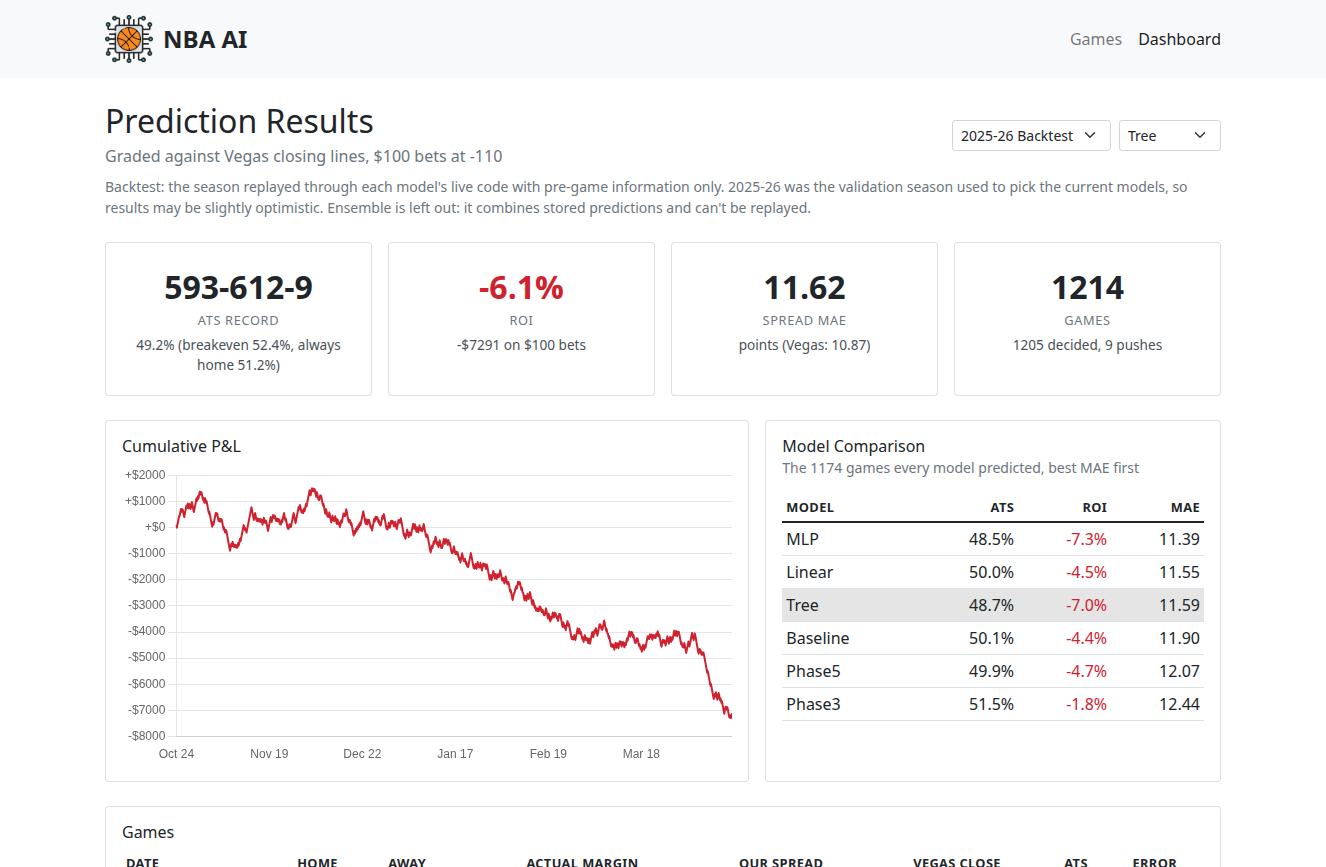
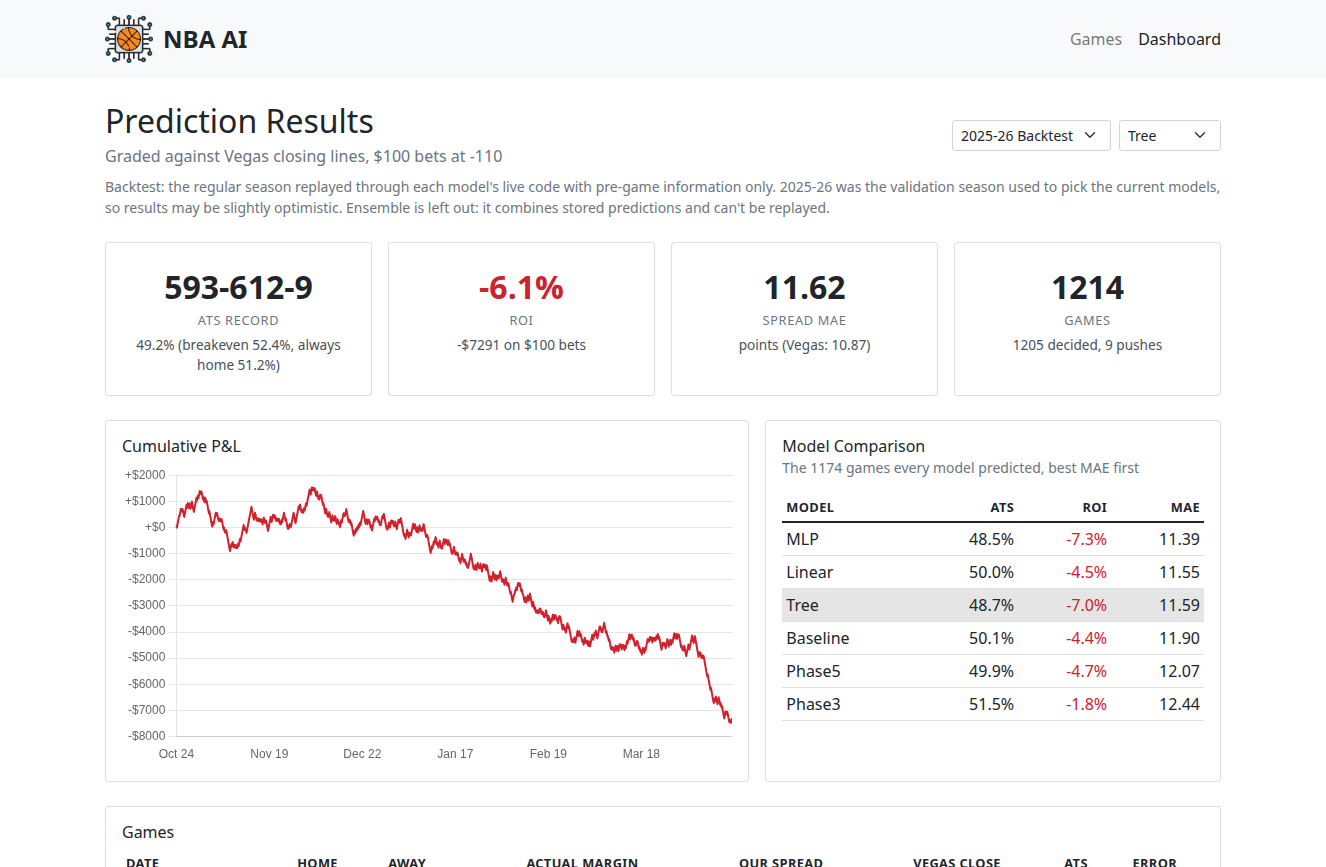
fix(dashboard): robust model comparison; backtest uses Eastern dates
- compare_predictors (dashboard + README chart): predictors with under
  half the best-covered one's games are left out (and named), so a sparse
  or lapsed predictor can't shrink everyone's common games; the README
  chart now uses the same comparison as the dashboard
- Record notes say what each covers: live = regular season and playoffs,
  backtest = its season type
- backtest.py --start/--end filter on Eastern dates (UTC pulled in the
  previous evening's games and dropped the end date's evening games); an
  empty range exits with a message; the usage example no longer lists
  Ensemble, which can't be backtested
- Dashboard screenshot retaken for the new note

diff --git a/src/web_app/static/js/dashboard.js b/src/web_app/static/js/dashboard.js
@@ -8,11 +8,13 @@
 
 const GAMES_PAGE_SIZE = 20;
 const BREAKEVEN_ATS = 52.4; // ATS win rate that breaks even at -110
-const RECORD_NOTES = {
-  live: "Live: predictions made and stored before tip-off.",
-  backtest:
-    "Backtest: the season replayed through each model's live code with pre-game information only.",
-};
+/** What a record is: live predictions, or a replayed season. */
+function recordNote(record, isBacktest) {
+  const what = isBacktest
+    ? `Backtest: the ${record.season_type.toLowerCase()} replayed through each model's live code with pre-game information only.`
+    : "Live: predictions made and stored before tip-off, regular season and playoffs.";
+  return [what, record.note].filter(Boolean).join(" ");
+}
 let allGames = [];
 let gamesShown = GAMES_PAGE_SIZE;
 
@@ -71,12 +73,7 @@ function loadDashboard() {
         data.predictor,
       );
       const record = data.records.find((r) => r.id === data.record);
-      setText(
-        "recordNote",
-        [RECORD_NOTES[data.is_backtest ? "backtest" : "live"], record.note]
-          .filter(Boolean)
-          .join(" "),
-      );
+      setText("recordNote", recordNote(record, data.is_backtest));
 
       document.getElementById("dashboardContent").hidden = false;
       populateSummary(data.summary);
@@ -174,7 +171,10 @@ function drawPLChart(plData) {
 function renderComparison(comparison, record, selected) {
   setText(
     "comparisonNote",
-    `The ${comparison.n_games} games every model predicted, best MAE first`,
+    `The ${comparison.n_games} games every model predicted, best MAE first` +
+      (comparison.excluded.length
+        ? ` (${comparison.excluded.join(", ")} left out: too few games)`
+        : ""),
   );
   document.getElementById("comparisonBody").replaceChildren(
     ...comparison.rows.map((row) => {

diff --git a/src/web_app/dashboard.py b/src/web_app/dashboard.py
@@ -71,6 +71,7 @@ def list_records():
                 "id": f"backtest-{path.stem}",
                 "label": data["label"],
                 "note": data.get("note", ""),
+                "season_type": data.get("season_type", "Regular Season"),
             }
         )
     return records
@@ -216,6 +217,37 @@ def summarize(graded):
     }
 
 
+# A predictor with fewer games than this share of the best-covered one is
+# left out of the comparison, so it can't shrink everyone's common games
+MIN_COMPARISON_COVERAGE = 0.5
+
+
+def compare_predictors(games, predictions):
+    """
+    Score predictors on the games they all predicted, best MAE first.
+
+    Returns (rows, n_common_games, excluded predictor names).
+    """
+    most = max(len(spreads) for spreads in predictions.values())
+    included = {
+        p: spreads
+        for p, spreads in predictions.items()
+        if len(spreads) >= MIN_COMPARISON_COVERAGE * most
+    }
+    common = set.intersection(*(set(spreads) for spreads in included.values()))
+    rows = [
+        {
+            "predictor": p,
+            **summarize(
+                grade_games(games, {g: s for g, s in spreads.items() if g in common})
+            ),
+        }
+        for p, spreads in included.items()
+    ]
+    rows.sort(key=lambda row: row["mae"])
+    return rows, len(common), sorted(predictions.keys() - included.keys())
+
+
 def _cumulative_pl(graded):
     running, points = 0.0, []
     for g in graded:
@@ -251,19 +283,7 @@ def fetch_dashboard_data(record_id=None, predictor=None):
         default = current_app.config.get("PREDICTOR")
         predictor = default if default in predictions else predictors[0]
 
-    # The comparison uses only games every predictor has, so it's like for like
-    common = set.intersection(*(set(p) for p in predictions.values()))
-    comparison = [
-        {
-            "predictor": p,
-            **summarize(
-                grade_games(games, {g: s for g, s in spreads.items() if g in common})
-            ),
-        }
-        for p, spreads in predictions.items()
-    ]
-    comparison.sort(key=lambda row: row["mae"])
-
+    comparison, n_common, excluded = compare_predictors(games, predictions)
     graded = grade_games(games, predictions[predictor])
     return {
         "records": records,
@@ -272,7 +292,7 @@ def fetch_dashboard_data(record_id=None, predictor=None):
         "predictors": predictors,
         "predictor": predictor,
         "summary": summarize(graded),
-        "comparison": {"n_games": len(common), "rows": comparison},
+        "comparison": {"n_games": n_common, "rows": comparison, "excluded": excluded},
         "cumulative_pl": _cumulative_pl(graded),
         "games": graded[::-1],  # most recent first
     }

diff --git a/scripts/backtest.py b/scripts/backtest.py
@@ -15,8 +15,11 @@ record next to the live ones.
 Usage:
     python scripts/backtest.py --predictors Phase5 Tree --season 2025-2026
     python scripts/backtest.py --predictors Phase5 --start 2026-01-01 --end 2026-02-28
-    python scripts/backtest.py --predictors Baseline Linear Tree MLP Ensemble Phase3 Phase5 \
+    python scripts/backtest.py --predictors Phase5 Phase3 Tree MLP Linear Baseline \
         --season 2025-2026 --output models/backtests/2025-2026.json
+
+Ensemble can't be backtested: it combines predictions already stored in the
+Predictions table rather than replaying its components.
 """
 
 import argparse
@@ -26,6 +29,7 @@ import logging
 import math
 import sys
 import time
+from datetime import datetime, timedelta
 from pathlib import Path
 
 import numpy as np
@@ -55,14 +59,27 @@ def load_games(args) -> list[dict]:
     if args.season:
         query += " AND g.season = ?"
         params.append(args.season)
+    # --start/--end are Eastern (schedule) dates; evening games fall on the
+    # next UTC day, so widen the UTC bounds and filter on the Eastern date
     if args.start:
         query += " AND g.date_time_utc >= ?"
         params.append(args.start)
     if args.end:
         query += " AND g.date_time_utc < ?"
-        params.append(args.end + "T99")
+        params.append(
+            (datetime.strptime(args.end, "%Y-%m-%d") + timedelta(days=2)).strftime(
+                "%Y-%m-%d"
+            )
+        )
     with get_db(DB_PATH) as conn:
-        rows = conn.execute(query + " ORDER BY g.date_time_utc", params).fetchall()
+        rows = [
+            r
+            for r in conn.execute(query + " ORDER BY g.date_time_utc", params)
+            if (not args.start or to_eastern_date(r[1]) >= args.start)
+            and (not args.end or to_eastern_date(r[1]) <= args.end)
+        ]
+        if not rows:
+            raise SystemExit("No finished games in that range")
         seasons = sorted({r[2] for r in rows})
         prev = f"{int(seasons[0][:4]) - 1}-{seasons[0][:4]}"
         naive = conn.execute(

diff --git a/scripts/generate_readme_chart.py b/scripts/generate_readme_chart.py
@@ -2,8 +2,8 @@
 """Generate prediction model performance chart for README.
 
 Scores live predictions (made before tip-off, April 1, 2026 onward) with the
-results dashboard's code: ATS win rate, ROI at -110, and Spread MAE for all
-predictors. Produces a
+results dashboard's model comparison: ATS win rate, ROI at -110, and Spread
+MAE for all predictors on the games they all predicted. Produces a
 grouped bar chart saved to docs/images/predictor_performance.png.
 
 Usage:
@@ -23,9 +23,8 @@ sys.path.insert(0, str(REPO_ROOT))
 
 from src.web_app.dashboard import (  # noqa: E402
     LIVE_PREDICTIONS_START as LIVE_START,
-    grade_games,
+    compare_predictors,
     load_live_record,
-    summarize,
 )
 
 OUTPUT_PATH = REPO_ROOT / "docs" / "images" / "predictor_performance.png"
@@ -200,14 +199,15 @@ def create_chart(metrics: list[dict]) -> None:
 
 
 def main():
+    # Same comparison as the dashboard: every model on the games they all
+    # predicted (models with too few games are left out)
     games, predictions = load_live_record()
-    metrics = []
-    for predictor in PREDICTORS:
-        m = summarize(grade_games(games, predictions.get(predictor, {})))
-        if m["ats_wins"] + m["ats_losses"]:
-            metrics.append({"predictor": predictor, **m})
-        else:
-            print(f"WARNING: {predictor} — no decided games, skipping.")
+    rows, n_common, excluded = compare_predictors(games, predictions)
+    by_name = {row["predictor"]: row for row in rows}
+    metrics = [by_name[p] for p in PREDICTORS if p in by_name]
+    print(f"{n_common} games every model predicted")
+    for p in excluded:
+        print(f"WARNING: {p} — too few games, left out.")
 
     if not metrics:
         print("ERROR: No metrics computed. Is the database populated?")
